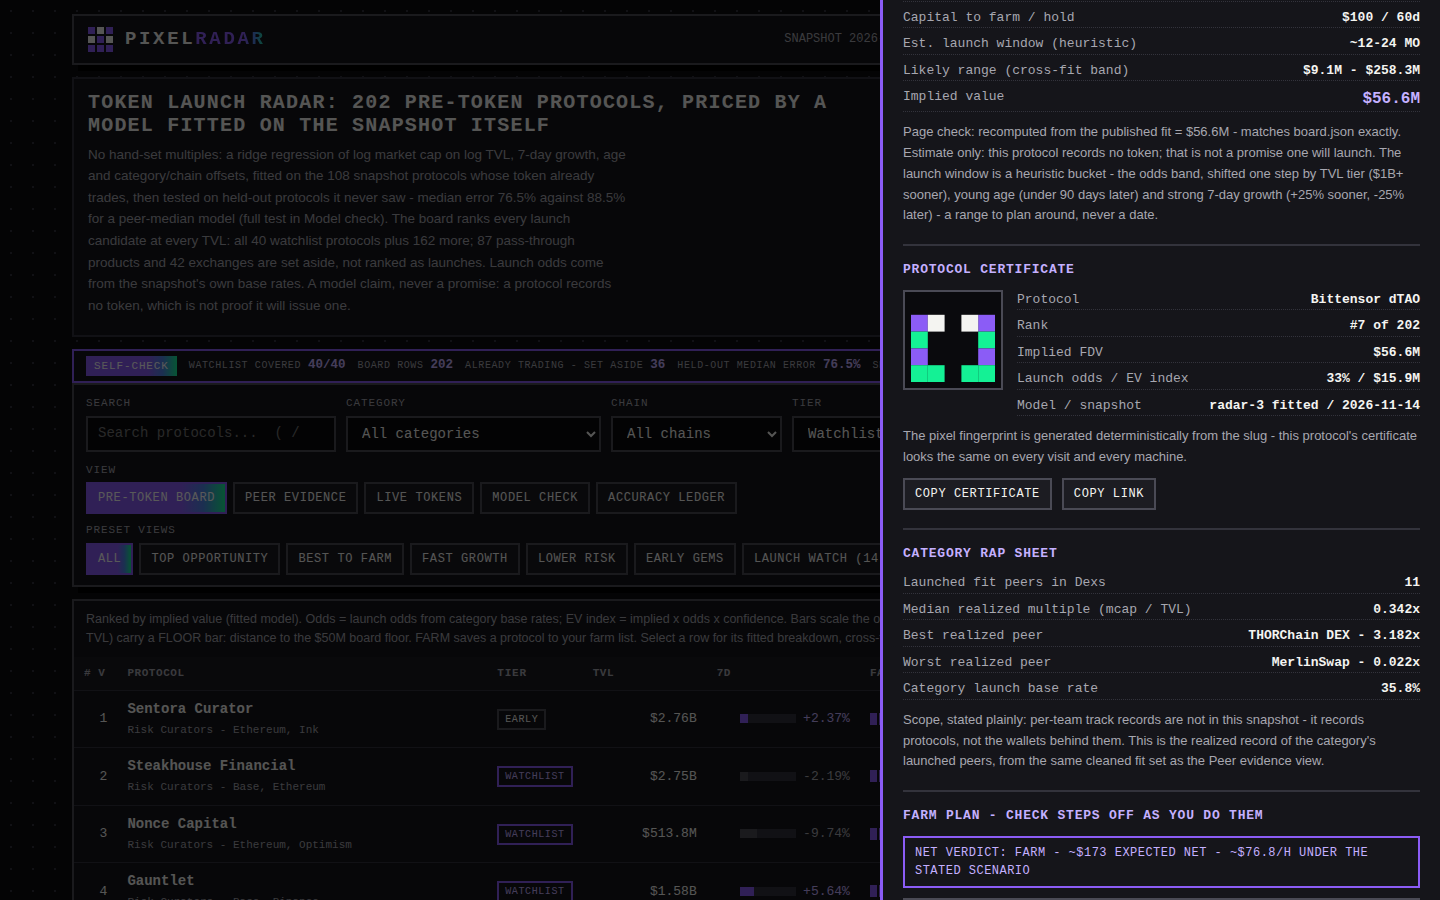
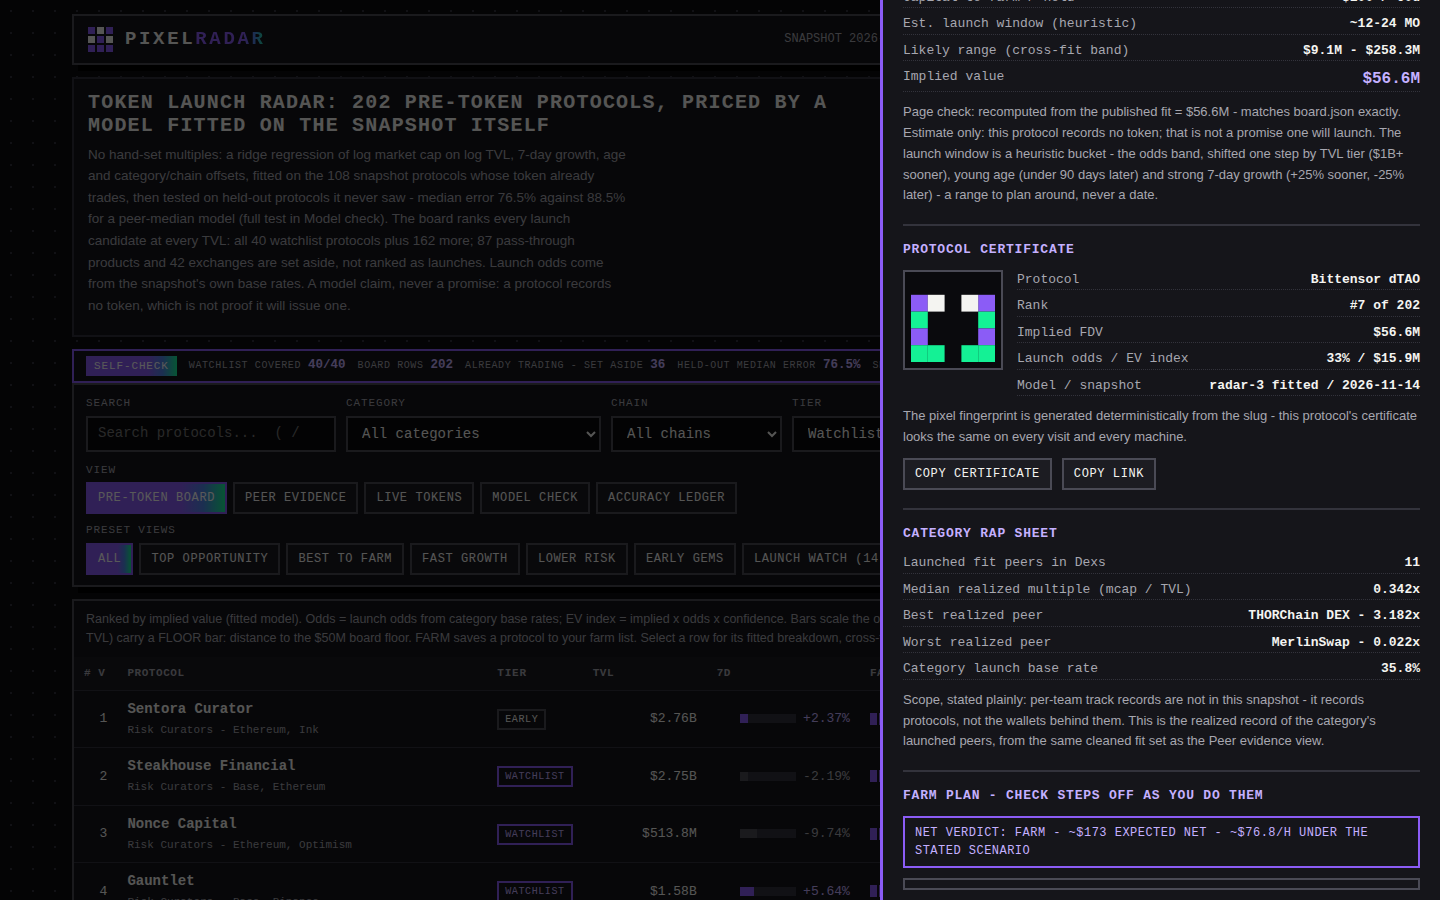
PIXEL RADAR v4 final: three-scheme held-out validation in Model Check

Changed region(s): [[0.625, 0.0, 1.0, 1.0]]

diff --git a/dashboard/app.js b/dashboard/app.js
@@ -28,9 +28,7 @@
     return n;
   }
   function seg(score, white) { var s = el('span', { class: 'seg', 'aria-hidden': 'true' }); var filled = Math.round(score / 20); for (var i = 0; i < 5; i++) s.appendChild(el('i', { class: i < filled ? (white && i < 2 ? 'fw' : 'f') : '' })); return s; }
-  // Purple bars are the data language (vbar in-table, pbar full-width); grey
-  // marks the baseline or a negative move. The gradient maps to the track,
-  // not the fill: only a near-full bar earns the green tail.
+  // Purple bars are the data language; grey is the baseline or a down move.
   function vbar(pct, grey, w) { var b = el('span', { class: 'vbar' + (grey ? ' grey' : ''), 'aria-hidden': 'true' }); if (w) b.style.width = w + 'px'; var fill = el('i', { style: 'width:' + clamp(Math.round(pct), 0, 100) + '%' }); if (!grey) fill.style.backgroundSize = (w || 56) + 'px 100%'; b.appendChild(fill); return b; }
   function fixGradients() { var fills = document.querySelectorAll('.bar.block i, .progress i'); for (var i = 0; i < fills.length; i++) { var p = fills[i].parentElement; if (p && p.clientWidth) fills[i].style.backgroundSize = p.clientWidth + 'px 100%'; } }
   var WATCH_LO = 35e6;
@@ -304,9 +302,14 @@
     var vv = DATA.validation, maxMed = Math.max(vv.fitted.median_ape_pct, vv.baseline.median_ape_pct, vv.blend.median_ape_pct);
     return el('tr', chosen ? { class: 'sel' } : null, el('td', { text: label + (chosen ? ' - SHIPPED' : '') }), el('td', { class: 'num' }, vbar(s.median_ape_pct / maxMed * 100, !chosen, 90), el('span', { text: s.median_ape_pct + '%' })), el('td', { class: 'num', text: s.mean_ape_pct + '%' }), el('td', { class: 'num', text: String(s.r2_log) }));
   }
+  function schemeRow(s) {
+    return el('tr', null, el('td', { text: s.name + ' (n=' + s.n + ')' }), el('td', { class: 'num', text: s.fitted.median_ape_pct + '%' }), el('td', { class: 'num', text: s.baseline.median_ape_pct + '%' }), el('td', { class: 'num', text: 'x' + s.factor.toFixed(2) }), el('td', { class: 'num', text: String(s.fitted.r2_log) }));
+  }
   function modelView() {
     var f = DATA.fit, v = DATA.validation;
     var coef = el('tbody');
+    var scTb = el('tbody');
+    DATA.validation_schemes.forEach(function (s) { scTb.appendChild(schemeRow(s)); });
     [['Intercept (at mean log TVL)', f.intercept], ['Log TVL (elasticity)', f.log_tvl], ['7-day growth, per +100%', f.growth], ['Log age, per log day', f.log_age]].forEach(function (r) {
       coef.appendChild(el('tr', null, el('td', { text: r[0] }), el('td', { class: 'num', text: String(r[1]) })));
     });
@@ -319,6 +322,9 @@
         el('p', { text: 'The fit set is the ' + f.candidate_rows + ' protocols whose token trades with a recorded market cap and real TVL (exchanges excluded). A fixed outlier rule drops any whose market-cap / TVL multiple falls outside [' + f.mult_band[0] + ', ' + f.mult_band[1] + '] - a mismatched record, not a valuation - leaving ' + f.fit_rows + ' fitted rows (' + f.dropped_rows + ' dropped). Validation is deterministic 2-fold cross-fitting: each half of the fitted rows is priced by a model trained only on the other half, so every error below is on a protocol the model never saw.' }),
         el('div', { class: 'table-wrap' }, el('table', null, el('thead', null, el('tr', null, el('th', { text: 'Model' }), el('th', { text: 'Median error' }), el('th', { text: 'Mean error' }), el('th', { text: 'R2 (log)' }))), el('tbody', null, statRow('Fitted regression (radar-3)', v.fitted, true), statRow('Peer-median baseline (radar-2)', v.baseline, false), statRow('50/50 log blend of the two', v.blend, false)))),
         el('p', { text: 'The fitted model has the lowest held-out median error and the highest R2, so the board ships it alone; the blend only won on mean error, which a few wild multiples dominate, and it was tested and dropped rather than shipped. Errors near 77% at the median are the honest state of pricing pre-token protocols from TVL: read implied values as orders of magnitude, and the confidence score says how much evidence stands behind each one.' }),
+        el('h3', { text: 'Tested three ways' }),
+        el('div', { class: 'table-wrap' }, el('table', null, el('thead', null, el('tr', null, el('th', { text: 'Split' }), el('th', { text: 'Fitted median' }), el('th', { text: 'Baseline median' }), el('th', { text: 'Factor' }), el('th', { text: 'R2 (log)' }))), scTb)),
+        el('p', { text: 'Walk-forward splits by listing date and uses only the 80 of the ' + f.fit_rows + ' fitted tokens that carry one. On the newest 20 both models\' R2 goes negative - recent launch levels drift from what older launches imply - yet the fitted median error stays the lowest under every split. The claim is a stable median error (76-82%), not a stable R2.' }),
         el('p', { text: 'Every protocol also carries a likely range, shown in its detail view as the cross-fit band: the interquartile range (25th to 75th percentile) of the signed cross-fit residuals - the same out-of-fold errors scored above - taken per category where at least 5 fitted tokens exist, and from all ' + f.fit_rows + ' residuals otherwise. The band is the spread of the model\'s own misses, printed next to the number it qualifies.' }),
         el('p', null, el('button', { type: 'button', text: 'Open the Accuracy Ledger - all ' + DATA.ledger_summary.graded + ' graded tokens, one by one', onclick: function () { state.tab = 'ledger'; render(); } }))),
       el('section', { class: 'panel model' }, el('h2', { text: 'Fitted coefficients' }),

diff --git a/lib/model.ts b/lib/model.ts
@@ -231,6 +231,13 @@ export interface Validation {
   blend: ValidationStats;
   chosen: string;
 }
+export interface ValidationScheme {
+  name: string;
+  n: number;
+  fitted: ValidationStats;
+  baseline: ValidationStats;
+  factor: number;
+}
 
 export interface RadarData {
   as_of: string;
@@ -249,6 +256,7 @@ export interface RadarData {
   median_implied_usd: number;
   fit: FitParams;
   validation: Validation;
+  validation_schemes: ValidationScheme[];
   farm_scenario: typeof FARM_SCENARIO;
   categories: CategoryInfo[];
   chain_offsets: ChainOffset[];
@@ -499,6 +507,70 @@ export function validate(snapshot: Snapshot): Validation {
     }
   }
   return { folds: 2, rows: rows.length, fitted: statsOf(fitted), baseline: statsOf(baseline), blend: statsOf(blend), chosen: 'fitted' };
+}
+
+// ---------------------------------------------------------------------------
+// The same test, cut three more ways, so the headline 2-fold number is not
+// the only split the model has ever faced: leave-one-out over the whole fit
+// set, and walk-forward by listing date (train on the past, price the
+// future) at two cut points. Every scheme scores the fitted model against
+// the same peer-median baseline on identical train/test splits; the factor
+// is the baseline's raw median error divided by the fitted model's.
+// Walk-forward can only use the fit rows that carry a listing date.
+// ---------------------------------------------------------------------------
+
+function splitPairs(train: SnapshotProtocol[], test: SnapshotProtocol[], asOf: string): { f: [number, number][]; b: [number, number][] } {
+  const model = ridgeFit(train, asOf);
+  const peers = peerTable(train);
+  const f: [number, number][] = [];
+  const b: [number, number][] = [];
+  for (const p of test) {
+    f.push([model.predict(p), p.mcap_usd!]);
+    b.push([baselineLog(p, asOf, peers), p.mcap_usd!]);
+  }
+  return { f, b };
+}
+
+function rawMedianApe(pairs: [number, number][]): number {
+  return median(pairs.map(([lp, m]) => (Math.abs(Math.exp(lp) - m) / m) * 100));
+}
+
+function schemeOf(name: string, f: [number, number][], b: [number, number][]): ValidationScheme {
+  return { name, n: f.length, fitted: statsOf(f), baseline: statsOf(b), factor: round2(rawMedianApe(b) / rawMedianApe(f)) };
+}
+
+export function validationSchemes(snapshot: Snapshot): ValidationScheme[] {
+  const { rows } = fitSet(snapshot);
+  const asOf = snapshot.as_of;
+  const schemes: ValidationScheme[] = [];
+  {
+    const F: [number, number][] = [];
+    const B: [number, number][] = [];
+    for (let fold = 0; fold < 2; fold++) {
+      const { f, b } = splitPairs(rows.filter((p) => fnv1a(p.slug) % 2 !== fold), rows.filter((p) => fnv1a(p.slug) % 2 === fold), asOf);
+      F.push(...f);
+      B.push(...b);
+    }
+    schemes.push(schemeOf('2-fold cross-fit', F, B));
+  }
+  {
+    const F: [number, number][] = [];
+    const B: [number, number][] = [];
+    for (let i = 0; i < rows.length; i++) {
+      const { f, b } = splitPairs(rows.filter((_, j) => j !== i), [rows[i]!], asOf);
+      F.push(...f);
+      B.push(...b);
+    }
+    schemes.push(schemeOf('Leave-one-out', F, B));
+  }
+  const dated = rows.filter((p) => p.listed_at !== null)
+    .sort((a, b) => (a.listed_at! < b.listed_at! ? -1 : a.listed_at! > b.listed_at! ? 1 : a.slug < b.slug ? -1 : 1));
+  for (const [name, frac] of [['Walk-forward 50/50', 0.5], ['Walk-forward 75/25', 0.75]] as [string, number][]) {
+    const cut = Math.floor(dated.length * frac);
+    const { f, b } = splitPairs(dated.slice(0, cut), dated.slice(cut), asOf);
+    schemes.push(schemeOf(name, f, b));
+  }
+  return schemes;
 }
 
 // ---------------------------------------------------------------------------
@@ -956,7 +1028,7 @@ export function buildRadar(snapshot: Snapshot): { board: BoardRow[]; radar: Rada
     excluded_passthrough: snapshot.protocols.filter((p) => isPreToken(p) && p.category !== 'CEX' && !VERSIONED.test(p.name) && PASS_CATEGORIES.has(p.category ?? '')).length,
     total_implied_usd: board.reduce((sum, r) => sum + r.implied_value_usd, 0),
     median_implied_usd: impliedSorted.length ? impliedSorted[Math.floor(impliedSorted.length / 2)]! : 0,
-    fit, validation, farm_scenario: FARM_SCENARIO, categories,
+    fit, validation, validation_schemes: validationSchemes(snapshot), farm_scenario: FARM_SCENARIO, categories,
     chain_offsets: fit.chain_offsets,
     rows: scored.map((s, i) => {
       const band = bands.byCategory.get(s.p.category ?? 'Other') ?? bands.global;
